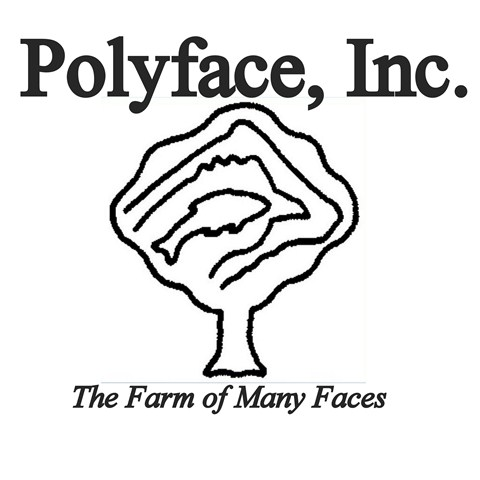
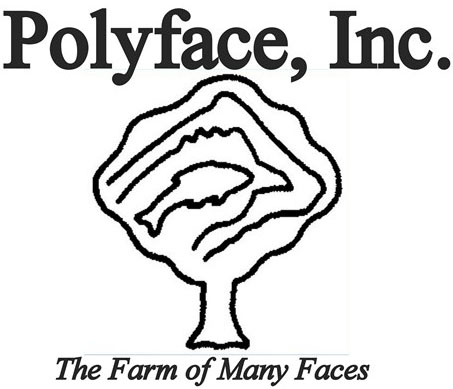
freshly cropped assets and better masonry

Changed region(s): [[0.0, 0.0, 0.8344, 1.0], [0.7108, 0.0, 1.0, 0.2159]]

diff --git a/source/assets/javascripts/salvattore.min.js b/source/assets/javascripts/salvattore.min.js
@@ -1,0 +1,5 @@
+/*
+ * Salvattore 1.0.5 by @rnmp and @ppold
+ * https://github.com/rnmp/salvattore
+ */
+!function(a,b){"object"==typeof exports?module.exports=b():"function"==typeof define&&define.amd?define("salvattore",[],b):a.salvattore=b()}(this,function(){window.matchMedia||(window.matchMedia=function(){"use strict";var a=window.styleMedia||window.media;if(!a){var b=document.createElement("style"),c=document.getElementsByTagName("script")[0],d=null;b.type="text/css",b.id="matchmediajs-test",c.parentNode.insertBefore(b,c),d="getComputedStyle"in window&&window.getComputedStyle(b,null)||b.currentStyle,a={matchMedium:function(a){var c="@media "+a+"{ #matchmediajs-test { width: 1px; } }";return b.styleSheet?b.styleSheet.cssText=c:b.textContent=c,"1px"===d.width}}}return function(b){return{matches:a.matchMedium(b||"all"),media:b||"all"}}}()),function(){if(window.matchMedia&&window.matchMedia("all").addListener)return!1;var a=window.matchMedia,b=a("only all").matches,c=!1,d=0,e=[],f=function(){clearTimeout(d),d=setTimeout(function(){for(var b=0,c=e.length;c>b;b++){var d=e[b].mql,f=e[b].listeners||[],g=a(d.media).matches;if(g!==d.matches){d.matches=g;for(var h=0,i=f.length;i>h;h++)f[h].call(window,d)}}},30)};window.matchMedia=function(d){var g=a(d),h=[],i=0;return g.addListener=function(a){b&&(c||(c=!0,window.addEventListener("resize",f,!0)),0===i&&(i=e.push({mql:g,listeners:h})),h.push(a))},g.removeListener=function(a){for(var b=0,c=h.length;c>b;b++)h[b]===a&&h.splice(b,1)},g}}(),function(){for(var a=0,b=["ms","moz","webkit","o"],c=0;c<b.length&&!window.requestAnimationFrame;++c)window.requestAnimationFrame=window[b[c]+"RequestAnimationFrame"],window.cancelAnimationFrame=window[b[c]+"CancelAnimationFrame"]||window[b[c]+"CancelRequestAnimationFrame"];window.requestAnimationFrame||(window.requestAnimationFrame=function(b){var c=(new Date).getTime(),d=Math.max(0,16-(c-a)),e=window.setTimeout(function(){b(c+d)},d);return a=c+d,e}),window.cancelAnimationFrame||(window.cancelAnimationFrame=function(a){clearTimeout(a)})}();var a=function(a,b){"use strict";var c={},d=[],e=function(a,b,c){a.dataset?a.dataset[b]=c:a.setAttribute("data-"+b,c)};return c.obtain_grid_settings=function(b){var c,d,e=a.getComputedStyle(b,":before"),f=e.getPropertyValue("content").slice(1,-1),g=f.match(/^\s*(\d+)(?:\s?\.(.+))?\s*$/);return g?(c=g[1],d=g[2],d=d?d.split("."):["column"]):(g=f.match(/^\s*\.(.+)\s+(\d+)\s*$/),d=g[1],c=g[2],c&&(c=c.split("."))),{numberOfColumns:c,columnClasses:d}},c.add_columns=function(a,d){for(var f,g=c.obtain_grid_settings(a),h=g.numberOfColumns,i=g.columnClasses,j=new Array(+h),k=b.createDocumentFragment(),l=h;0!==l--;)f="[data-columns] > *:nth-child("+h+"n-"+l+")",j.push(d.querySelectorAll(f));j.forEach(function(a){var c=b.createElement("div"),d=b.createDocumentFragment();c.className=i.join(" "),Array.prototype.forEach.call(a,function(a){d.appendChild(a)}),c.appendChild(d),k.appendChild(c)}),a.appendChild(k),e(a,"columns",h)},c.remove_columns=function(c){var d=b.createRange();d.selectNodeContents(c);var f=Array.prototype.filter.call(d.extractContents().childNodes,function(b){return b instanceof a.HTMLElement}),g=f.length,h=f[0].childNodes.length,i=new Array(h*g);Array.prototype.forEach.call(f,function(a,b){Array.prototype.forEach.call(a.children,function(a,c){i[c*g+b]=a})});var j=b.createElement("div");return e(j,"columns",0),i.filter(function(a){return!!a}).forEach(function(a){j.appendChild(a)}),j},c.recreate_columns=function(b){a.requestAnimationFrame(function(){c.add_columns(b,c.remove_columns(b))})},c.media_query_change=function(a){a.matches&&Array.prototype.forEach.call(d,c.recreate_columns)},c.get_css_rules=function(a){var b;try{b=a.sheet.cssRules||a.sheet.rules}catch(c){return[]}return b||[]},c.get_stylesheets=function(){return Array.prototype.concat.call(Array.prototype.slice.call(b.querySelectorAll("style[type='text/css']")),Array.prototype.slice.call(b.querySelectorAll("link[rel='stylesheet']")))},c.media_rule_has_columns_selector=function(a){for(var b,c=a.length;c--;)if(b=a[c],b.selectorText&&b.selectorText.match(/\[data-columns\](.*)::?before$/))return!0;return!1},c.scan_media_queries=function(){var b=[];a.matchMedia&&(c.get_stylesheets().forEach(function(d){Array.prototype.forEach.call(c.get_css_rules(d),function(d){d.media&&c.media_rule_has_columns_selector(d.cssRules)&&b.push(a.matchMedia(d.media.mediaText))})}),b.forEach(function(a){a.addListener(c.media_query_change)}))},c.next_element_column_index=function(a,b){var c,d,e,f=a.children,g=f.length,h=0,i=0;for(e=0;g>e;e++)c=f[e],d=c.children.length+b[e].children.length,0===h&&(h=d),h>d&&(i=e,h=d);return i},c.create_list_of_fragments=function(a){for(var c=new Array(a),d=0;d!==a;)c[d]=b.createDocumentFragment(),d++;return c},c.append_elements=function(a,b){var d=a.children,e=d.length,f=c.create_list_of_fragments(e);b.forEach(function(b){var d=c.next_element_column_index(a,f);f[d].appendChild(b)}),Array.prototype.forEach.call(d,function(a,b){a.appendChild(f[b])})},c.prepend_elements=function(a,d){var e=a.children,f=e.length,g=c.create_list_of_fragments(f),h=f-1;d.forEach(function(a){var b=g[h];b.insertBefore(a,b.firstChild),0===h?h=f-1:h--}),Array.prototype.forEach.call(e,function(a,b){a.insertBefore(g[b],a.firstChild)});for(var i=b.createDocumentFragment(),j=d.length%f;0!==j--;)i.appendChild(a.lastChild);a.insertBefore(i,a.firstChild)},c.register_grid=function(f){if("none"!==a.getComputedStyle(f).display){var g=b.createRange();g.selectNodeContents(f);var h=b.createElement("div");h.appendChild(g.extractContents()),e(h,"columns",0),c.add_columns(f,h),d.push(f)}},c.init=function(){var a=b.createElement("style");a.innerHTML="[data-columns]::before{visibility:hidden;position:absolute;font-size:1px;}",b.head.appendChild(a);var d=b.querySelectorAll("[data-columns]");Array.prototype.forEach.call(d,c.register_grid),c.scan_media_queries()},c.init(),{append_elements:c.append_elements,prepend_elements:c.prepend_elements,register_grid:c.register_grid}}(window,window.document);return a});

diff --git a/source/assets/stylesheets/app.sass b/source/assets/stylesheets/app.sass
@@ -152,7 +152,6 @@ section.main
   a
     width: 2em
     height: 2em
-    // border-radius: 0.25em
     background: rgba(black, 0.75)
     +transition(all, 0.2s)
     display: block
@@ -164,6 +163,42 @@ section.main
       display: block !important
       text-align: center
       +vertical-align
+
+
+// masonry (actually, http://salvattore.com)
+.masonry
+  margin: -.75em
+  padding: 0
+  list-style: none
+  overflow: none
+
+  .column
+    float: left
+
+  .brick
+    padding: .75em
+    margin: 0
+
+    .brick-content
+      line-height: 0
+      padding: .75em
+      border: $border
+      text-align: center
+      background: white
+
+  .size-1of3
+    width: 33.333%
+
+    +media($baby-bear)
+      width: 50%
+
+  .size-1of4
+    width: 25%
+
+    +media($baby-bear)
+      width: 33.333%
+
+
 
 
 
@@ -350,32 +385,21 @@ li.block
 section.sponsors
   +main
 
-  ul
-    list-style: none
-    margin: 0
-    padding: 0
-    @extend %flex
+  .brick
+    cursor: pointer
 
-    li
-      +span-columns(3)
-      +omega(4n)
-      background: white
-      border: 1px solid $neutral
-      padding: 1em
-      margin-bottom: 1em
-      line-height: 0
+  .brick-content
+    +transition(box-shadow, .2s)
+    text-align: center
+
+    &:hover
+      box-shadow: 3px 3px 7px 0px rgba(50, 50, 50, 0.51)
       +transition(box-shadow, .2s)
 
-      &:hover
-        box-shadow: 3px 3px 7px 0px rgba(50, 50, 50, 0.51)
-        +transition(box-shadow, .2s)
+.sponsor-list[data-columns]::before
+  content: '3 .column.size-1of3'
 
-  ul.sponsor-list li
-    +span-columns(4)
-    +omega(3n)
-
-  ul.partner-list li
-    +span-columns(3)
-    +omega(4n)
+.partner-list[data-columns]::before
+  content: '4 .column.size-1of4'
 
 
